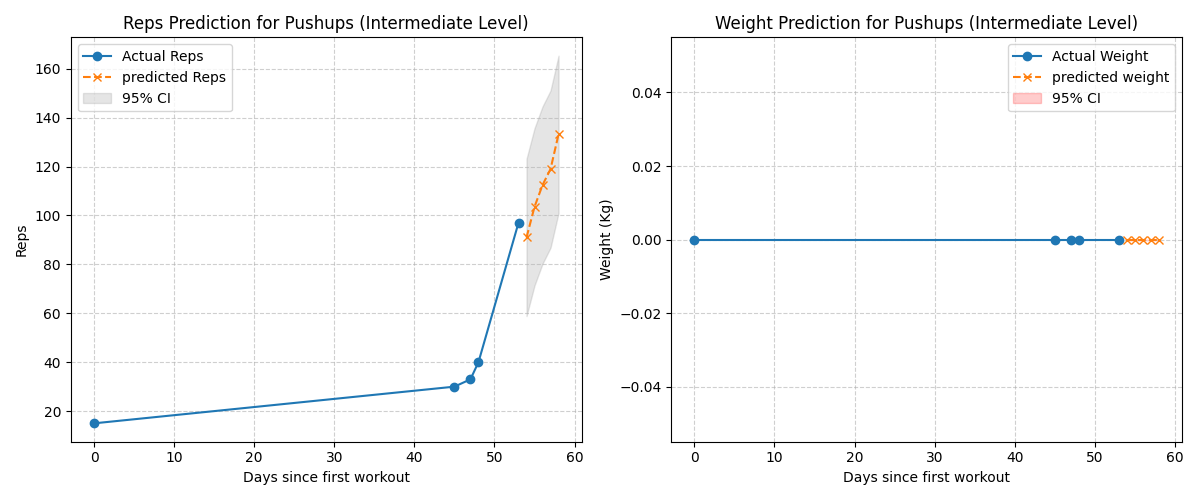
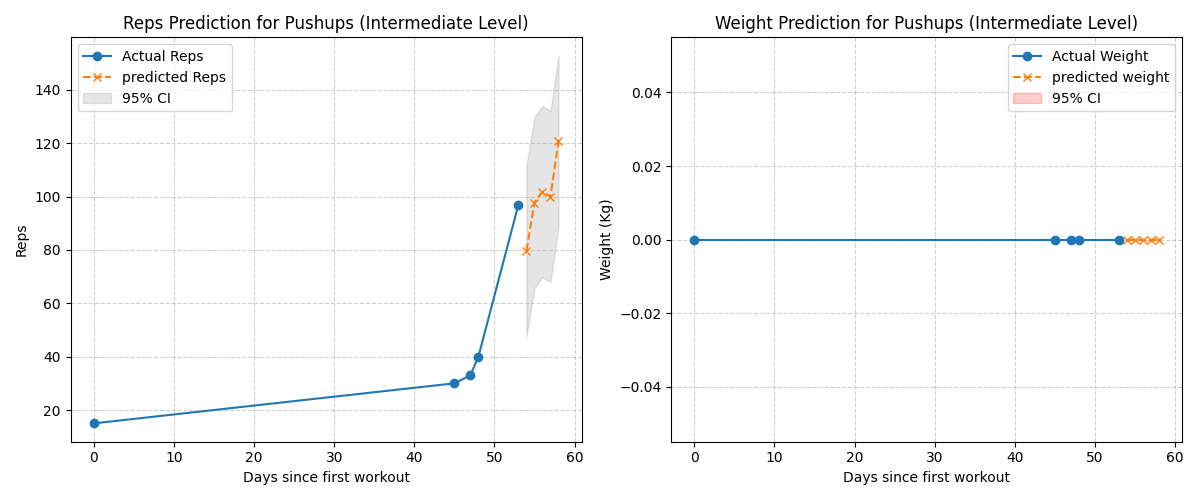
this is the one I can feel it

diff --git a/predictor.py b/predictor.py
@@ -94,6 +94,8 @@ def predict_targets(dates, reps, weights, user_level="intermediate", degree=2):
     # Ensures reps and weights stay non negative
     last_reps = reps[-1]
     last_weights = weights[-1]
+    avg_reps = np.mean(reps)
+    avg_weights = np.mean(weights)
 
    
 
@@ -135,8 +137,12 @@ def predict_targets(dates, reps, weights, user_level="intermediate", degree=2):
         if i % 3 == 0:
             future_reps[i] *= 0.90
         
-    min_reps = last_reps * 0.7
-    min_weights = last_weights * 0.7
+        if  abs(future_reps[i] - future_weights[i] > 0.5 * max(future_reps[i], future_weights[i])):
+            avg_value = (future_reps[i] + future_weights[i]) / 2
+            future_reps[i] = (future_reps[i] + avg_value) / 2
+            future_weights[i] = (future_weights[i] + avg_value) / 2
+    min_reps = max(last_reps * 0.7, avg_reps * 0.5)
+    min_weights = max(last_weights * 0.7, avg_weights * 0.5)
     future_reps = np.clip(future_reps, min_reps, max_reps)
     future_weights = np.clip(future_weights, min_weights, max_weights)
   
